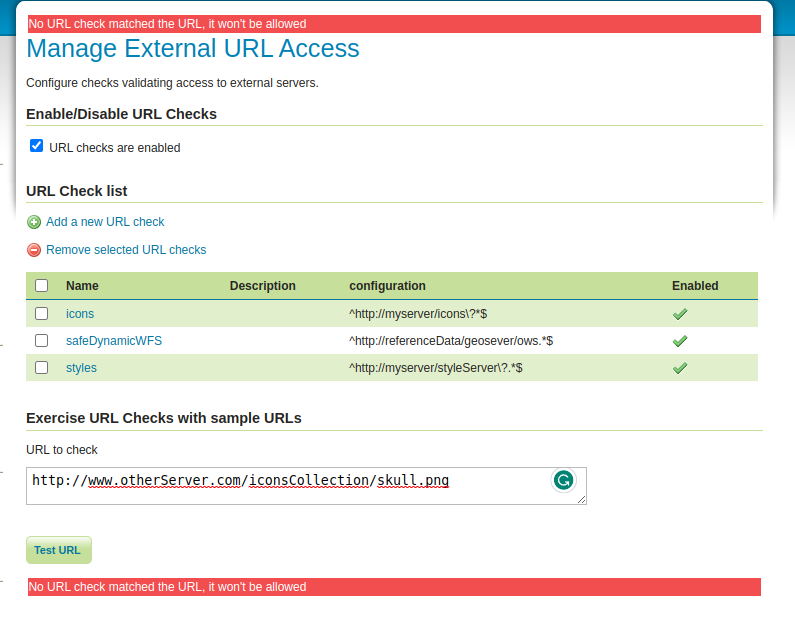
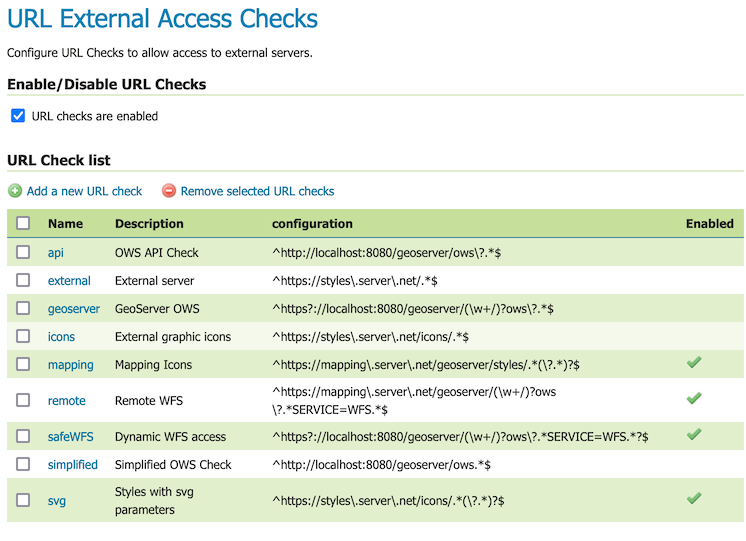
[GEOS-10949] URL Check UI and documentation improvements adding normalization (#6916)
* [GEOS-10949] URL check page layout and default ows URL
* [GEOS-10949] Update URL Check documentation and gui labels
* [GEOS-10949] Use URL Check to verify WPS POST via HREF
* [GEOS-10949] Reduce image size and apply documentation suggestions from code review
* [GEOS-10949] Harden example RegEX and allow for URL normalization
* [GEOS-10949] Update RegEx documentation examples
* [GEOS-10949] Move normalization to GeoTools URLCheckers.normalize(location)
* [GEOS-10949] Simply documentation examples now that normalization is available

diff --git a/src/web/security/core/src/main/java/org/geoserver/security/web/url/URLChecksPage.html b/src/web/security/core/src/main/java/org/geoserver/security/web/url/URLChecksPage.html
@@ -19,17 +19,15 @@
 
         <fieldset>
             <legend><span><wicket:message key="urlChecks"></wicket:message></span></legend>
-            <ul>
+            <ul class="action-group">
                 <li><a class="add-link" href="#" wicket:id="addNew">
                     <wicket:message key="addNew"/>
                 </a></li>
                 <li><a class="remove-link" href="#" wicket:id="removeSelected">
                     <wicket:message key="removeSelected"/>
                 </a></li>
-                <li>
-                    <div wicket:id="table"></div>
-                </li>
             </ul>
+            <div wicket:id="table"></div>
         </fieldset>
     </form>
 

diff --git a/src/web/security/core/src/main/java/org/geoserver/security/web/url/URLChecksPage.java b/src/web/security/core/src/main/java/org/geoserver/security/web/url/URLChecksPage.java
@@ -5,9 +5,11 @@
 package org.geoserver.security.web.url;
 
 import java.io.IOException;
+import java.util.ArrayList;
 import java.util.List;
 import java.util.logging.Level;
 import java.util.logging.Logger;
+import java.util.stream.Collectors;
 import org.apache.wicket.Component;
 import org.apache.wicket.ajax.AjaxRequestTarget;
 import org.apache.wicket.ajax.markup.html.AjaxLink;
@@ -21,6 +23,7 @@ import org.apache.wicket.model.IModel;
 import org.apache.wicket.model.LoadableDetachableModel;
 import org.apache.wicket.model.Model;
 import org.geoserver.security.urlchecks.AbstractURLCheck;
+import org.geoserver.security.urlchecks.GeoServerURLChecker;
 import org.geoserver.security.urlchecks.RegexURLCheck;
 import org.geoserver.security.urlchecks.URLCheckDAO;
 import org.geoserver.web.CatalogIconFactory;
@@ -31,6 +34,8 @@ import org.geoserver.web.wicket.GeoServerTablePanel;
 import org.geoserver.web.wicket.Icon;
 import org.geoserver.web.wicket.ParamResourceModel;
 import org.geoserver.web.wicket.SimpleBookmarkableLink;
+import org.geotools.data.ows.URLChecker;
+import org.geotools.data.ows.URLCheckers;
 import org.geotools.util.logging.Logging;
 
 /** Page for configuring URL checks */
@@ -96,7 +101,8 @@ public class URLChecksPage extends GeoServerSecuredPage {
                     public void onSubmit(AjaxRequestTarget target, Form form) {
                         try {
                             testInput.processInput();
-                            AbstractURLCheck check = getMatchingRule();
+
+                            URLChecker check = getMatchingRule();
 
                             if (check != null) {
                                 String msg = getMessage("testSuccess", check.getName());
@@ -112,14 +118,23 @@ public class URLChecksPage extends GeoServerSecuredPage {
                         addFeedbackPanels(target);
                     }
 
-                    private AbstractURLCheck getMatchingRule() throws IOException {
+                    private URLChecker getMatchingRule() throws IOException {
                         String test = testInput.getInput();
-                        List<AbstractURLCheck> checks = getUrlCheckDAO().getChecks();
-                        for (AbstractURLCheck check : checks) {
+                        String normalize = URLCheckers.normalize(test);
+
+                        List<URLChecker> checks = new ArrayList<>();
+                        checks.addAll(getUrlCheckDAO().getChecks());
+                        checks.addAll(
+                                URLCheckers.getEnabledURLCheckers().stream()
+                                        .filter(item -> !(item instanceof GeoServerURLChecker))
+                                        .collect(Collectors.toList()));
+
+                        for (URLChecker check : checks) {
                             if (check.isEnabled()) {
-                                if (check.confirm(test)) return check;
+                                if (check.confirm(normalize)) return check;
                             }
                         }
+
                         return null;
                     }
                 });

diff --git a/src/web/security/core/src/main/java/org/geoserver/security/web/url/RegexCheckPage.java b/src/web/security/core/src/main/java/org/geoserver/security/web/url/RegexCheckPage.java
@@ -90,10 +90,30 @@ public class RegexCheckPage extends GeoServerSecuredPage {
         add(form);
     }
 
+    /**
+     * Generate an example reglar expression.
+     *
+     * <p>This example processes {@link #getOWSURL()} to demonstrate:
+     *
+     * <ul>
+     *   <li>Escaping {@code \.} characters
+     *   <li>Allow anything after {@code ?} query
+     * </ul>
+     *
+     * @return example regular expression based on open web services api endpoint
+     */
     private String getDefaultRegex() {
-        return "^" + getOWSURL() + ".*$";
+        String url = getOWSURL();
+        url = url.replace(".", "\\.");
+
+        return "^" + url + "\\?.*$";
     }
 
+    /**
+     * Determine a sensible example open web service URL to use as an example RegEX.
+     *
+     * @return Open web service URL to use as an example RegEx
+     */
     private String getOWSURL() {
         String proxyBase = getGeoServer().getSettings().getProxyBaseUrl();
         if (proxyBase != null) {
@@ -106,7 +126,7 @@ public class RegexCheckPage extends GeoServerSecuredPage {
             mangler.mangleURL(base, path, new HashMap<>(), URLMangler.URLType.SERVICE);
             return ResponseUtils.appendPath(base.toString(), path.toString());
         }
-        return "http://localhost:8080/geosever/ows";
+        return "http://localhost:8080/geoserver/ows";
     }
 
     private SubmitLink submitLink() {

diff --git a/src/main/src/main/java/org/geoserver/security/urlchecks/GeoServerURLChecker.java b/src/main/src/main/java/org/geoserver/security/urlchecks/GeoServerURLChecker.java
@@ -50,12 +50,12 @@ public class GeoServerURLChecker implements URLChecker, DisposableBean {
 
             // if enabled but no checks configured, deny access
             List<AbstractURLCheck> enabledUrlList = getEnabledChecks();
-            if (enabledUrlList.isEmpty()) return false;
-
-            for (AbstractURLCheck u : enabledUrlList) {
-                if (u.confirm(url)) {
-                    LOGGER.log(Level.FINE, () -> "URL " + url + " was matched by " + u);
-                    return true;
+            if (!enabledUrlList.isEmpty()) {
+                for (AbstractURLCheck u : enabledUrlList) {
+                    if (u.confirm(url)) {
+                        LOGGER.log(Level.FINE, () -> "URL " + url + " was matched by " + u);
+                        return true;
+                    }
                 }
             }
             LOGGER.log(Level.FINE, () -> url + " did not match any check");

diff --git a/src/web/security/core/src/test/java/org/geoserver/security/web/url/RegexCheckPageTest.java b/src/web/security/core/src/test/java/org/geoserver/security/web/url/RegexCheckPageTest.java
@@ -67,6 +67,17 @@ public class RegexCheckPageTest extends GeoServerWicketTestSupport {
         assertTrue(check.isEnabled());
     }
 
+    @Test
+    public void testDefaultRegex() throws Exception {
+        startEmptyPage();
+
+        FormTester form = tester.newFormTester("form");
+        String regex = form.getTextComponentValue("regex");
+
+        assertTrue("query", regex.contains("\\?.*"));
+        assertTrue("line", regex.endsWith("$"));
+    }
+
     private static void fillNewRule(String regex) {
         startEmptyPage();
 

diff --git a/src/extension/wps/wps-core/src/main/java/org/geoserver/wps/executor/RemoteRequestInputProvider.java b/src/extension/wps/wps-core/src/main/java/org/geoserver/wps/executor/RemoteRequestInputProvider.java
@@ -187,7 +187,9 @@ public class RemoteRequestInputProvider extends AbstractInputProvider {
                     "NoApplicableCode",
                     getInputId());
         }
-        return ref.getBodyReference().getHref();
+        String bodyReferenceHref = ref.getBodyReference().getHref();
+        URLCheckers.confirm(bodyReferenceHref);
+        return bodyReferenceHref;
     }
 
     private static CloseableHttpResponse bodyHttpRequest(CloseableHttpClient client, String href)

diff --git a/doc/en/user/source/security/urlchecks.rst b/doc/en/user/source/security/urlchecks.rst
@@ -3,65 +3,194 @@
 URL Checks
 ==========
 
-The URL checks page controls the checks that are performed on user provided URLs that
+The :guilabel:`URL External Access Checks` page controls the checks that are performed on user provided URLs that
 GeoServer will use to access remote resources.
 
 Currently, the checks are performed on the following functionality:
 
-- WMS GetMap requests with remote SLD stylesheets (``sld``` parameter)
+- WMS GetMap requests with remote SLD stylesheets (``sld`` parameter)
 - Remote icons referenced by styles (access to icons in the data directory is always allowed)
 - WMS GetMap in feature portrayal mode (``REMOTE_OWS`` and ``REMOTE_OWS_TYPE`` parameters)
 - WPS remote inputs, either as GET or POST requests
 
-More functionality might go under this kind of scrutiny in the future, check this page
-for eventual updates.
+Check this page for any additional remote service access checks added in the future.
 
 Configuration of URL checks
 ---------------------------
 
-The "URL checks" page under the Security section allows configuration of the URL checks.
+Navigate to :menuselection:`Data > URL Checks` page to manage and configure URL Checks.
 
 .. figure:: images/urlchecks.png
 
-   URL Checks page
+   URL Checks table
 
-The top check box allows to enable or disable the URL checks. If disabled, no URL checks
-will be performed. This is not a secure setting, but could be used to upgrade existing 
-applications where GeoServer is not directly exposed to the public internet, and the
-requests are controlled by a front application validating all inputs.
+Use the :guilabel:`Enable/Disable URL Checks` enable this safety feature:
 
-The list of checks allows to add, remove and edit the checks.
+* When the :guilabel:`URL checks are enabled` checkbox is enabled, URL checks are performed to limit GeoServer access to remote resources as outlined above.
+  
+  Enabling URL checks is recommended to limit normal Open Web Service protocols interaction being used for Cross Site Scripting attacks.
+
+* When checkbox disabled, :guilabel:`URL checks are NOT enabled`, GeoServer is provided unrestricted access to remote resources.
+   
+  Disabling URL Checks is not a secure or recommended setting.
 
 Adding a regular expression based check
 ---------------------------------------
 
-Currently, regular expression based checks can be configured, with the following parameters for each check:
+The buttons for adding and removing URL checks can be found at the top of the :guilabel:`URL Check list` table.
 
-- **Name**: a name for the check, used to identify it in the list.
-- **Description**: a description of the check, for later reference.
-- **Regular expression**: a regular expression to match the URL to check.
-- **Enabled**: a check box to enable or disable the check.
+To add a URL Check, press the :guilabel:`Add new URL check` button. You will be prompted to enter URL check details (as described in :ref:`security_urlchecks_edit` below).
 
-.. figure:: images/regex.png
+Removing a regular expression based check
+-----------------------------------------
 
-   The regular expression based check
+To remove a URL Check, select the checkbox next to one or more rows in the :guilabel:`URL Check list` table.
+Press the :guilabel:`Remove selected URL checks` button to remove. You will be asked to confirm or cancel the removal. Pressing :guilabel:`OK` removes the selected URL Checks.
 
-The most common URL patter type, allowing matches prefixed by a given host name, follows the following pattern:
+.. _security_urlchecks_edit:
 
-``^https?://(www\.)?example\.com/.*$`` 
+Editing a URL Check
+-------------------
 
-Numerous web site can help building a valid Java regular expression patter, interpret and explain it,
-as well as test it. For example:
+Regular Expression URL checks can be configured, with the following parameters for each check:
 
-* https://regex101.com/ (enabled the Java 8 flavor)
-* https://www.freeformatter.com/java-regex-tester.html 
+.. list-table::
+   :widths: 30 70 
+   :header-rows: 1
 
+   * - Field
+     - Description
+   * - Name
+     - Name for the check, used to identify it in the list.
+   * - Description
+     - Description of the check, for later reference.
+   * - Regular Expression
+     - A regular expression used to match allowed URLs
+   * - Enabled
+     - Check box to enable or disable the check
+
+.. figure:: images/urlchecks-edit.png
+   
+   Configure Regular Expression URL check
 
 Testing URL checks
 ------------------
 
-The bottomg of the URL checks page contains a form to test the URL checks. The form allows to enter
-a given URL, and will perform the checks on it, reporting the results.
+The :guilabel:`Test URL Checks with external URL` form allows a URL to be checked, reporting if access is allowed or disallowed.
 
-If at least one URL check matches the URL, it will be allowed, otherwise it will be rejected and the
-request will provide an exception report.
+Test URL Checks form:
+
+.. list-table::
+   :widths: 30 70 
+   :header-rows: 1
+
+   * - Field
+     - Description
+   * - URL to check 
+     - Supply URL of external resource to check if access is allowed
+
+Press the :guilabel:`Test URL` button to perform the checks. If at least one URL Check matches the URL, it will be allowed and the test will indicate the URL Check permitting access. Otherwise it will be rejected and the test will indicate that no URL Check matched.
+
+.. figure:: images/urlchecks-test.png
+   
+   Test URL Checks with external URL
+   
+Example RegEx Patterns
+----------------------
+
+The most common pattern allows matching a given host name to allow external graphics from a remote server. This pattern uses ``^`` to mark the start, the host URL, ``.*`` to match anything, and ``$`` to end - as shown in the in following pattern:
+
+``^https://styles\.server\.net/.*$``
+
+::
+
+  https://styles.server.net/logo.png
+
+To allow external graphics from a specific directory on a remote server:
+
+``^https://styles\.server\.net/icons/.*$``
+
+::
+
+   https://styles.server.net/icons/forest.png
+
+When working with external graphics making use of SVG parameters use ``(\?.*)?$`` to optionally allow any query parameters after ``?``:
+
+``^https://styles\.server\.net/icons/.*(\?.*)?$``
+
+:: 
+   
+   https://styles.server.net/icons/forest.png
+   https://styles.server.net/icons/forest.svg?color=darkgreen
+
+When obtaining content from an API ``\?.*`` is used (as there is no need to support relative paths). As an example ``/geoserver/ows\?`` is used below to access the GeoServer Open Web Service API:
+
+``^https?://localhost:8080/geoserver/ows\?.*$``
+
+::
+   
+   http://localhost:8080/geoserver/ows?service=WMS&version=1.3.0&request=GetCapabilities
+
+To allow for GeoServer virtual web services ``(\w+/)?`` is used for optional workspace name:
+
+``^https?://localhost:8080/geoserver/(\w+/)?ows\?.*$``
+
+::
+
+   http://localhost:8080/geoserver/ows?service=WMS&version=1.3.0&request=GetCapabilities
+   http://localhost:8080/geoserver/ne/ows?service=WMS&version=1.3.0&request=GetCapabilities
+
+To limit to Web Feature Service ``?.*SERVICE=WFS.*`` is used to restrict query parameter:
+
+``^https?://localhost:8080/geoserver/(\w+/)?ows\?.*SERVICE=WFS.*?$``
+
+::
+   
+   http://localhost:8080/geoserver/tiger/ows?SERVICE=WFS&VERSION=1.0.0&REQUEST=GetFeature&TYPENAME=giant_polygon
+
+To allowing WMS ``REMOTE_OWS`` data access to an external GeoServer WFS service:
+
+``^https://mapping\.server\.net/geoserver/(\w+/)?ows\?.*SERVICE=WFS.*$``
+
+::
+
+  https://mapping.server.net/geoserver/ows?SERVICE=WFS&VERSION=1.0.0&REQUEST=GetFeature&TYPENAME=roads
+
+
+To allow external graphic access to a remote GeoServer icons:
+
+``^https://mapping\.server\.net/geoserver/styles/.*(\?.*)?$``
+
+::
+
+   https://mapping.server.net/geoserver/styles/grass_fill.png
+   https://mapping.server.net/geoserver/styles/ne/airport.svg?fill=gray
+
+File paths can also be checked:
+
+``^/var/opt/geoserver/data/.*$``
+
+::
+   
+   /var/opt/geoserver/data/example.tiff
+
+``^D:\\\\data\\.*$``
+
+::
+   
+   D:\\data\example.tiff
+
+.. note::
+
+   The locations being checked are normalizedmaking it easier to write RegEx patterns:
+
+   * URLs paths have been normalized to remove any redundant ``\.`` or ``\..`` paths have been removed
+   * File URLs have been normalized so that ``file:/`` is represented as ``file:///``
+   * File paths have been normalized using ``/`` on linux and ``\\`` on windows
+
+.. note::
+
+   Web sites are available to help define a valid Java regular expression pattern. These tools can be used to interpret, explain and test regular expressions. For example:
+
+   * https://regex101.com/ (enable the Java 8 flavor)
+   * https://www.freeformatter.com/java-regex-tester.html 
